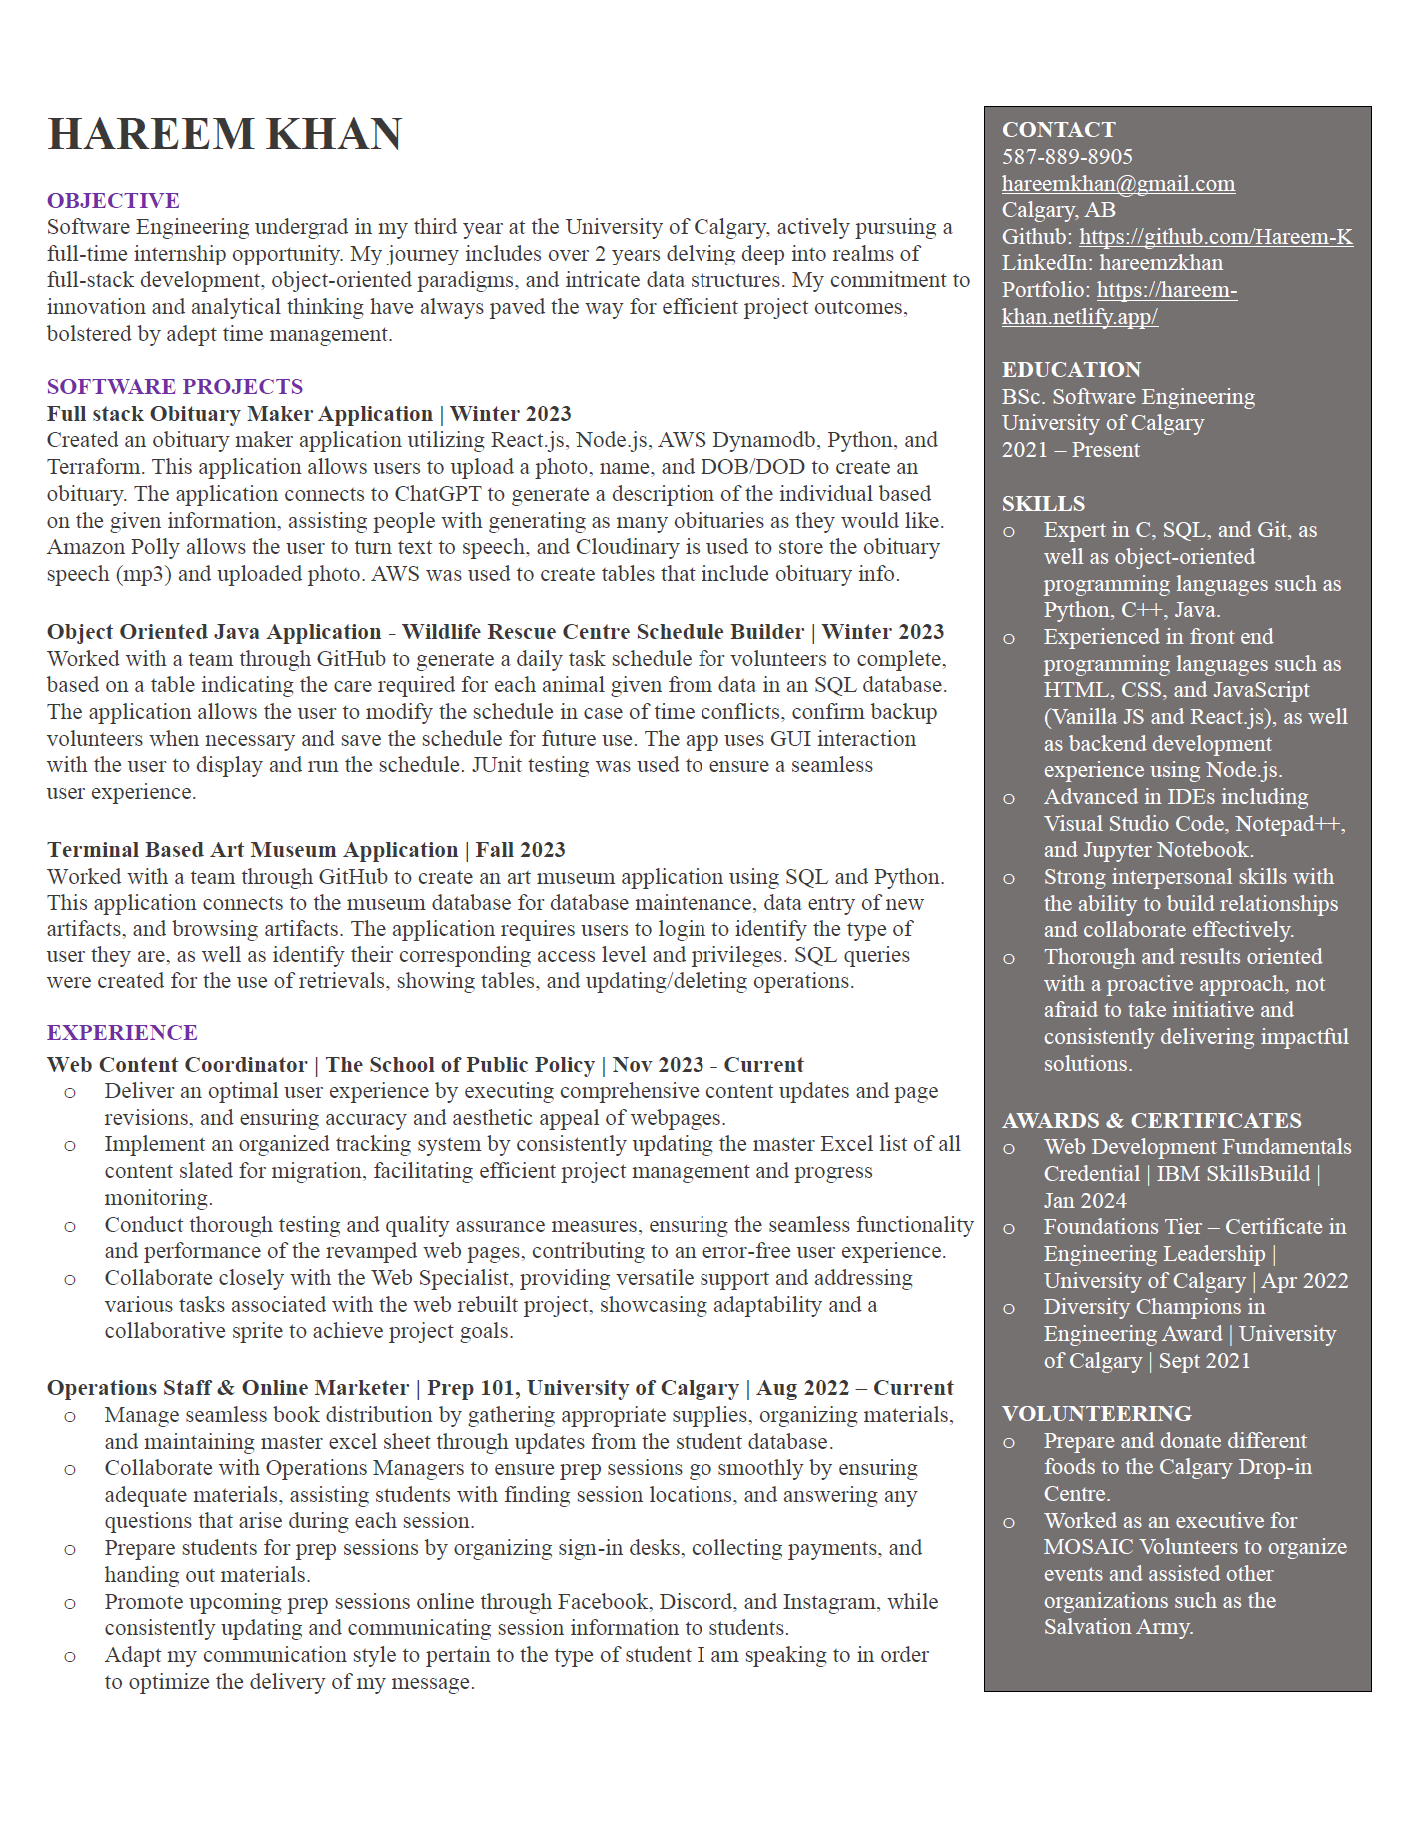
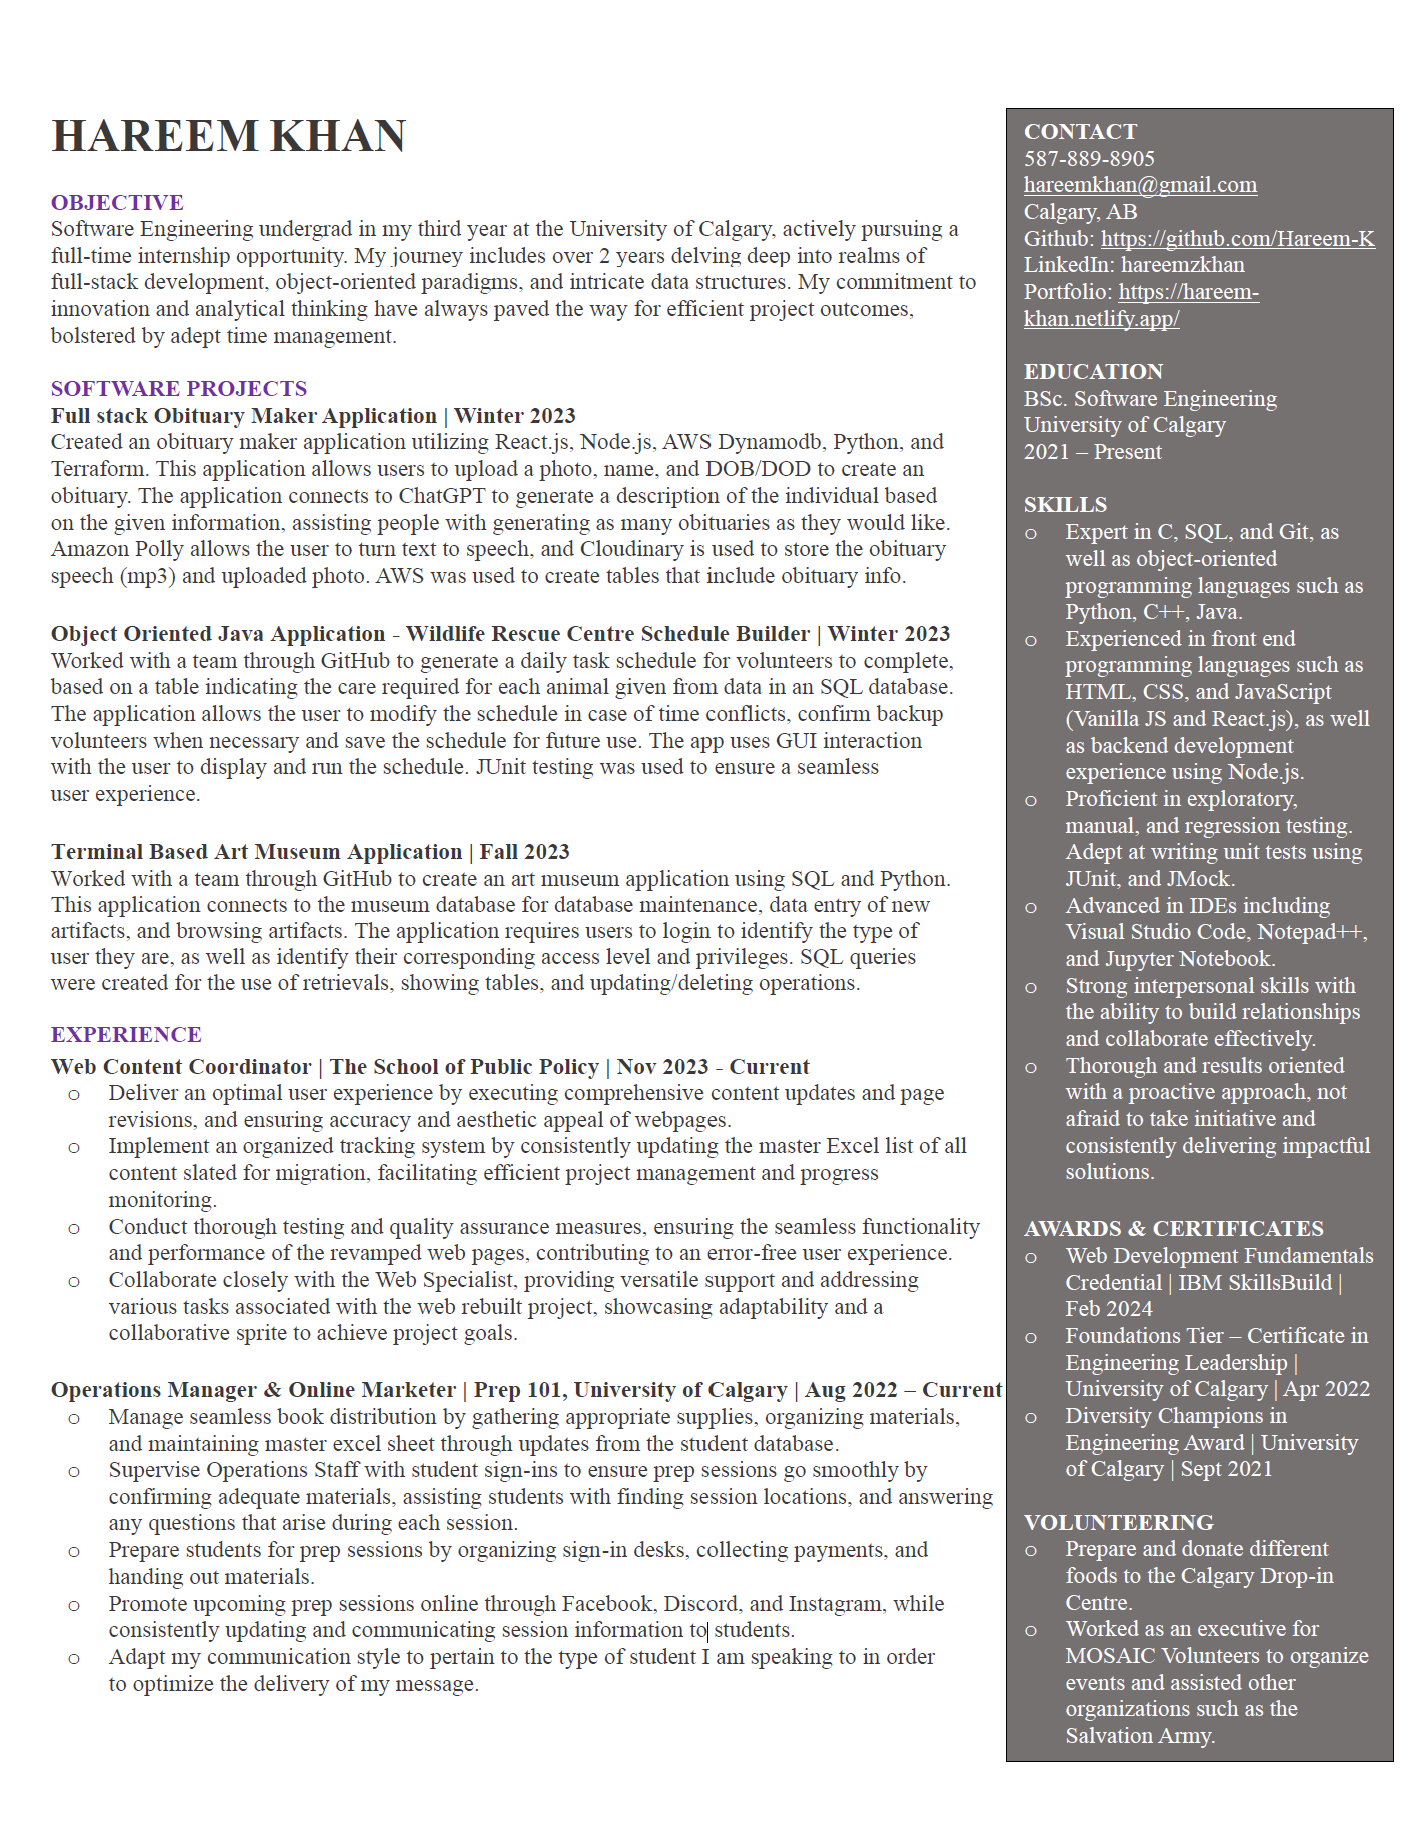
experience updates

Changed region(s): [[0.0312, 0.0624, 0.9986, 0.9672]]

diff --git a/src/components/pages/Experience.js b/src/components/pages/Experience.js
@@ -115,10 +115,10 @@ export default function Experience() {
 
                 <div className="text-container">
                     <div className="experience-item">
-                        <h2 className="role-title">Operations Staff & Online Marketer | Prep 101, University of Calgary <span className="date">Aug 2022 – Current</span></h2>
+                        <h2 className="role-title">Operations Manager & Online Marketer | Prep 101, University of Calgary <span className="date">Aug 2022 – Current</span></h2>
                         <ul className="circle-list">
                             <li>Manage seamless book distribution by gathering appropriate supplies, organizing materials, and maintaining master excel sheet through updates from the student database.</li>
-                            <li>Collaborate with Operations Managers to ensure prep sessions go smoothly by ensuring adequate materials, assisting students with finding session locations, and answering any questions that arise during each session.</li>
+                            <li>Supervise Operations Staff with student sign-ins to ensure prep sessions go smoothly by confirming adequate materials, assisting students with finding session locations, and answering any questions that arise during each session.</li>
                             <li>Prepare students for prep sessions by organizing sign-in desks, collecting payments, and handing out materials.</li>
                             <li>Promote upcoming prep sessions online through Facebook, Discord, and Instagram, while consistently updating and communicating session information to students.</li>
                             <li>Ensure accurate and concise prep session information is maintained on all social media platforms.</li>

diff --git a/src/components/pages/Resume.js b/src/components/pages/Resume.js
@@ -11,7 +11,7 @@ export default function Resume() {
     window.scrollTo(0, 0);
   }, []);
 
-  const downloadLink = 'https://drive.google.com/file/d/15toBhMA7hIGz6GfedExhvNmzSjvozp6G/view?usp=sharing';
+  const downloadLink = 'https://drive.google.com/file/d/1Mi_CNTMhcLJrsaKwRGI-J5_Wv00uR3a7/view?usp=sharing';
 
   return (
     <>
